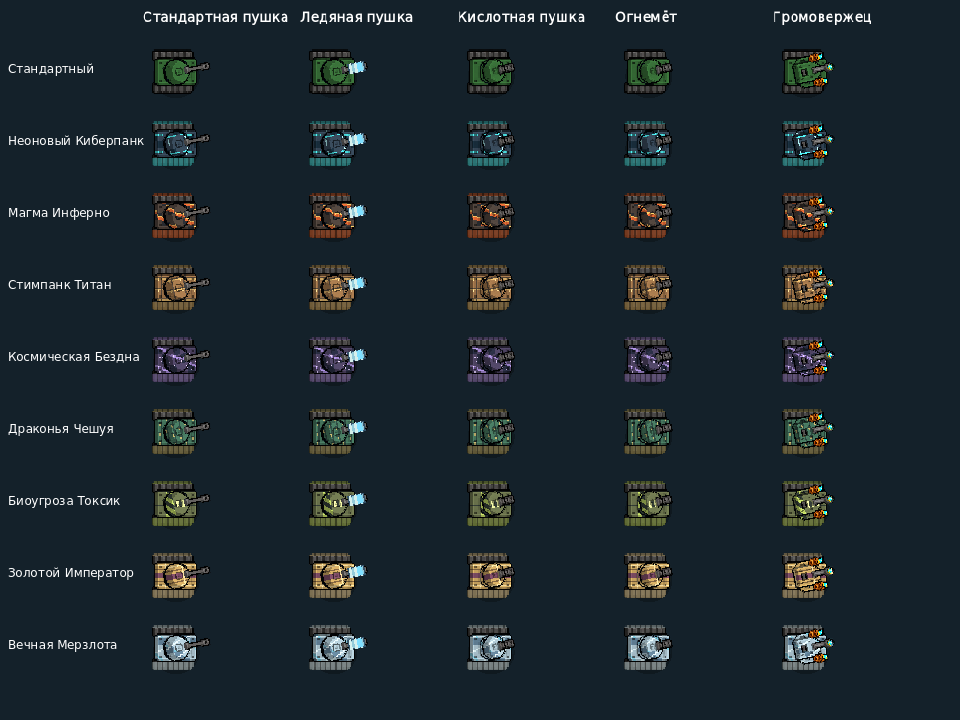
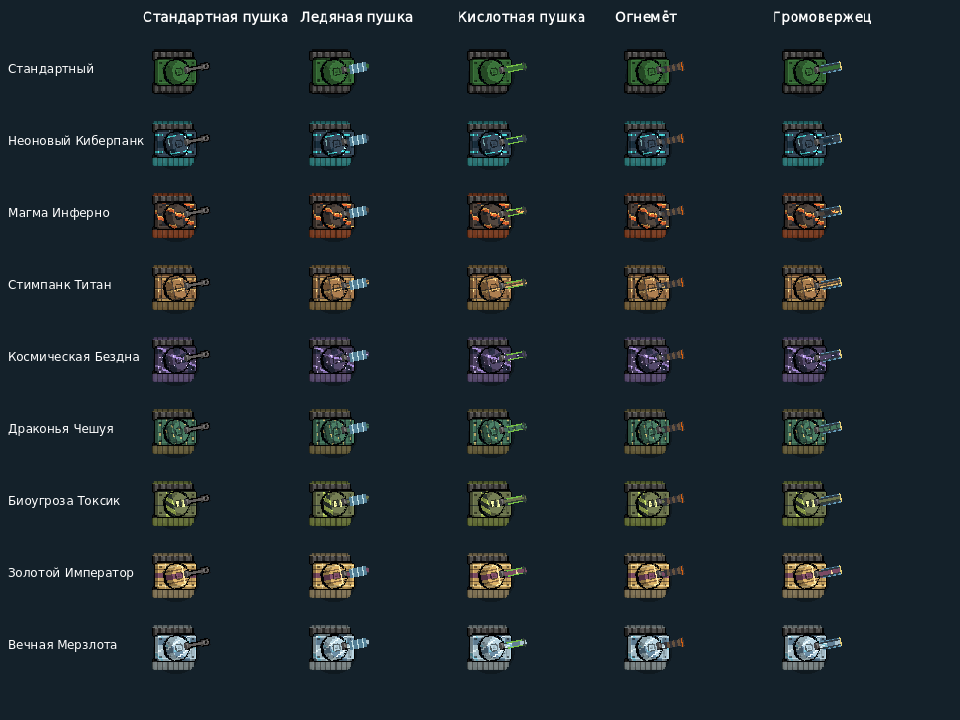
Подогнать орудия под родные башни всех шести классов танков; 0.9.70

diff --git a/docs/class-guns.md b/docs/class-guns.md
@@ -1,0 +1,31 @@
+# Орудия под класс танка — 0.9.70
+
+Выбранная пушка больше не подменяет родную башню класса башней Огнемётчика,
+Химеры или Теслы. Игрок сохраняет башню, люк, оптику и точку крепления
+своего корпуса; заменяется только ствол с функциональными деталями.
+
+В TankSprites.GUN_FIT заданы пропорции для шести корпусов:
+Универсал, Рядовой, Разведчик, Громила, Снайпер и Миномёт.
+Разведчик получает узкий компактный вариант, Громила — толстый и короткий,
+Снайпер — удлинённый, Миномёт — широкую короткую трубу. Для ледяной пушки
+используется кожух с рёбрами, для кислоты — зелёные каналы, для огнемёта —
+термоизоляция и сопло, для электричества — две направляющие.
+
+Сборка выполняется один раз в исходном разрешении 64×64 и кэшируется по
+корпусу и пушке. Исходные PNG не изменяются. Рисунок скина кэшируется с учётом
+конкретной сборки; светящиеся и цветные детали пушки остаются читаемыми.
+Нижняя часть родной башни совпадает с исходным спрайтом попиксельно.
+Поворот и маски статусов работают через общий рендер WorldView, используемый
+в бою, меню и гараже. Башни противников сохраняют авторские спрайты.
+
+Урон, дальность, точка появления снаряда, коллизия и характеристики классов
+не меняются. Стандартная пушка сохраняет исходный классовый спрайт.
+
+```sh
+godot --headless --path godot tests/class_guns_check.tscn
+godot --path godot tests/tank_skins_preview.tscn -- --class-guns
+```
+
+Проверки охватывают все сочетания классов и пушек, все восемь скинов,
+кэширование, сохранность башни и игровых параметров. Графическая сцена
+сохраняет `user://class_guns.png` и проверяет различимость пушек.

diff --git a/docs/tank-skins.md b/docs/tank-skins.md
@@ -1,5 +1,8 @@
 # Скины и экипировка в меню — 0.9.69
 
+В версии 0.9.70 орудия дополнительно подогнаны под каждый класс:
+см. [Орудия под класс танка](class-guns.md).
+
 Главное меню каждый кадр получает из профиля класс, пушку, цвет и косметику.
 Смена экипировки сразу отражается на модели: используется тот же WorldView,
 что в бою. Превью использует nearest-фильтрацию, чтобы пиксели не размывались
